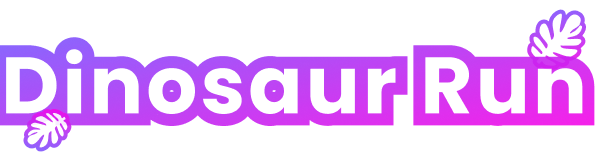
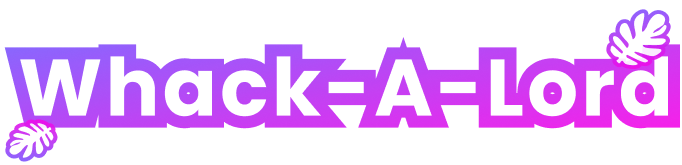
fix add task

Changed region(s): [[0.0, 0.0516, 1.0, 0.9806]]

diff --git a/src/view/tasks/index.jsx b/src/view/tasks/index.jsx
@@ -37,7 +37,8 @@ const TasksPage = () => {
         5: false,
         6: false,
         7: false,
-        8: false
+        8: false,
+        9: false,
     })
     const initDataUnsafe = Telegram?.WebApp?.initDataUnsafe
     // const initDataUnsafe = {
@@ -119,7 +120,8 @@ const TasksPage = () => {
             5: false,
             6: false,
             7: false,
-            8: false
+            8: false,
+            9: false,
         }
         setClaimObj({ ...claimObj })
         const res = await ApiServe.query('getrefcode', {
@@ -616,6 +618,39 @@ const TasksPage = () => {
                                                         </div>
                                                         :
                                                         <div className="tasks_btn go_btn fs_2 fw_b" onClick={() => {toWebsite("https://x.com/polariseorg", 7)}}>
+                                                            Go
+                                                        </div>
+                                                )
+
+                                        }
+                                    </div>
+
+                                    <div className="list_box list_box_4 pa_4 flex justify_between align_center mb_3">
+                                        <div className="flex align_center">
+                                            <img className="mr_5" src={imgicon_3} alt="" srcSet="" />
+                                            <div>
+                                                <div className="fs_2 fw_m">Join Polarise community</div>
+                                                <div className="fs_2 text_4">+90 BP</div>
+                                            </div>
+                                        </div>
+                                        {
+                                            !!taskList?.find(val => val.task_id === "10") ?
+                                                <div className="tasks_btn click_btn fs_2 fw_b">
+                                                    <i className="picon p-icon-Finish is_3"></i>
+                                                </div>
+                                                :
+                                                (
+                                                    claimObj[8] ?
+                                                        <div className="tasks_btn click_btn fs_2 fw_b" onClick={() => claimMt('Join Polarise community', 90.00, '10', 8)}>
+                                                            {
+                                                                isClaim === '10' ?
+                                                                    <span className="loader"></span>
+                                                                    :
+                                                                    <span>Claim</span>
+                                                            }
+                                                        </div>
+                                                        :
+                                                        <div className="tasks_btn go_btn fs_2 fw_b" onClick={() => {toTg("https://t.me/polariseorg", 8)}}>
                                                             Go
                                                         </div>
                                                 )

diff --git a/src/view/farming/index.jsx b/src/view/farming/index.jsx
@@ -145,7 +145,7 @@ const FarmingPage = () => {
 
             <div className="br_5 px_4 pt_2 pb_4 dinosaur_box flex column align_center">
                 <img className="header_img_box mb_5" src={imgTonlord} alt="" srcSet="" />
-                <div className="fs_4 fw_b mb_4">Polarlord run</div>
+                <div className="fs_4 fw_b mb_4">Whack-A-Lord</div>
                 <div className="flex align_center justify_center dinosaur_box_box mb_4">
                     <img className="mr_2" src={imgNumberOfLives} alt="" srcSet="" />
                     <span className="fs_3 fw_b">x {gameInfo?.remain_day > 0  ? gameInfo?.remain_day : 0}</span>

diff --git a/src/view/home/index.jsx b/src/view/home/index.jsx
@@ -79,7 +79,8 @@ const HomePage = () => {
             5: false,
             6: false,
             7: false,
-            8: false
+            8: false,
+            9: false,
         }
         if(claimObj[2]){
             // Telegram.WebApp.openTelegramLink('https://x.com/elonmusk/status/1836319222982701534')
@@ -105,7 +106,8 @@ const HomePage = () => {
             5: false,
             6: false,
             7: false,
-            8: false
+            8: false,
+            9: false,
         }
         if(claimObj[3]){
             Telegram.WebApp.openTelegramLink('https://t.me/polartonlord')

diff --git a/src/view/game/index.jsx b/src/view/game/index.jsx
@@ -8,7 +8,7 @@ import TitleImg from '/images/game/title.png'
 import OverImg from '/images/game/over.png'
 import BGM from '/images/game/bgm.mp3'
 import './index.scss'
-const TimeCount = 60
+const TimeCount = 30
 let SCORE = 0
 let TIME = 10
 const GamePage = () => {
